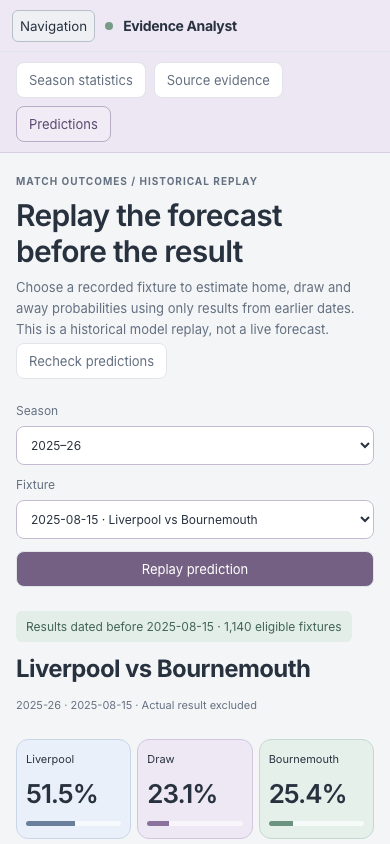
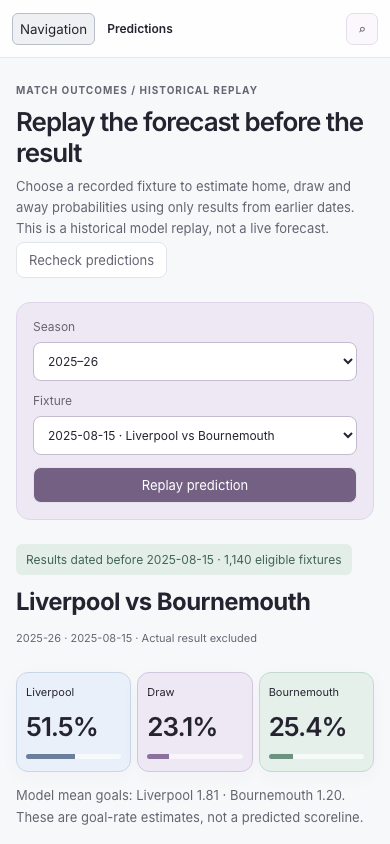
docs(ui): refresh workspace guide and real-data screenshots

diff --git a/README.md b/README.md
@@ -43,12 +43,17 @@ Explore the season through a focused relationship map, searchable player records
 
 Labels, keyboard focus and selection borders keep navigation clear without relying on color alone.
 
-![Club-first relationship explorer showing the 20 Premier League clubs and season](docs/images/demo-graph.png)
+![Discovery workspace with a real match spotlight and direct routes to each research tool](docs/images/discover.png)
+
+Start in **Discover**, browse the match spotlight, or jump directly to a tool. **⌘/Ctrl K** opens the searchable quick switch. Each workspace has a shareable URL; browser back/forward works across tools.
+
+<img src="docs/images/discover-mobile.png" width="390" alt="Mobile discovery workspace and match spotlight" />
 
 - **Evidence analyst:** compare points, goals and goal difference; inspect last-five form, home/away splits and goal/assist rankings, including per-90 rates with a minutes threshold.
 - **Focused graph explorer:** start with 20 clubs, drill into up to 12 available players and six recent fixtures, or search a player. Stable, labeled layouts replace the full-graph cluster; inspect real relationship directions and follow connections. Mobile starts in an accessible list view. Player/fixture views show up to eight recent appearance records.
 - **Player discovery:** search accent-free or full names (`ekitike`, `Alisson`), select closest matches for typos (`allison`), and distinguish missing roster coverage from service errors. [Search behavior and coverage](docs/player-search.md).
 - **Historical predictions:** replay 760 recorded fixtures across 2024–25 and 2025–26, inspect outcome probabilities and strictly earlier source records, and review two-season evaluation limits. [Prediction workflow](docs/prediction-workflow.md).
+- **Guided workspace:** interactive match spotlight, direct tool navigation, keyboard quick switch, mobile focus management and reduced-motion support.
 - **Fixture browser:** filter the full league schedule and navigate results using mouse or keyboard.
 - **Source evidence:** select a historical season, resolve fixture or player/opponent questions, and inspect verified records with original row/revision references. [Optional preparation and API guide](docs/evidence-api-ui.md).
 - **Evidence retrieval API:** search local summaries by club and inspect source URLs, record IDs and provenance.
@@ -186,7 +191,7 @@ Verified against pinned **2025–26** sources. [Acceptance evidence and reproduc
 | Historical outcome evaluation | **760 fixtures across two test seasons**; rolling log loss **0.9924 / 1.0350**, Brier **0.5920 / 0.6214**. Retrospective date-bounded tests; [protocol and uncertainty](docs/prediction-workflow.md). |
 | Independent numerical references | **42/42 passed**, plus five insufficient-evidence cases. |
 | Real-store/API acceptance | **Seven checks passed**, including all 42 live numerical references. |
-| Desktop/mobile browser flows | **28/28 passed**, covering graph exploration, keyboard navigation, fixtures, statistics, source evidence and predictions on desktop/mobile. |
+| Desktop/mobile browser flows | **34/34 passed**, covering discovery, match spotlight, quick switch, history navigation, graph exploration, fixtures, statistics, source evidence and predictions on desktop/mobile. |
 | Empty-storage Docker setup | Public collection, validation, graph/index loading and readiness passed. |
 | Backup and restart | All four volumes backed up privately; versions, counts and live answers preserved without recollection. |
 | CI | Python checks, wheel packaging, frontend build, Docker build and cold-storage readiness checks. |

diff --git a/docs/local-demo.md b/docs/local-demo.md
@@ -49,7 +49,7 @@ python3 scripts/demo.py evidence-status
 The expanded launcher builds the current image, prepares the MVP if needed, and
 runs historical collection, structured text acceptance, the separate evidence
 index/graph and retrieval smoke acceptance in the serving app's named volumes.
-Open **Evidence Chat → Source evidence** and choose a verified season. The
+Open **Source evidence** from the workspace navigation and choose a verified season. The
 [API/UI guide](evidence-api-ui.md) describes supported questions and source cards.
 The default launcher remains the smaller MVP option.
 

diff --git a/docs/evidence-api-ui.md b/docs/evidence-api-ui.md
@@ -1,6 +1,6 @@
 # Structured evidence in the analyst
 
-Open **Evidence Chat → Source evidence** to search the accepted four-season corpus.
+Open **Source evidence** from the workspace navigation to search the accepted four-season corpus.
 The existing **Season statistics** mode still calculates supported 2025–26 metrics.
 The sidebar fixtures and graph continue to show the default 2025–26 MVP; the
 Source evidence season selector controls historical retrieval independently.

diff --git a/docs/prediction-workflow.md b/docs/prediction-workflow.md
@@ -1,6 +1,6 @@
 # Historical prediction workflow
 
-Open **Evidence Chat → Predictions** in the local app. Choose 2024–25 or 2025–26,
+Open **Predictions** from the workspace navigation in the local app. Choose 2024–25 or 2025–26,
 select a recorded fixture and replay its home/draw/away forecast. The 760-fixture
 catalogue covers all 20 clubs in each season. This is a retrospective statistical
 workflow, not a live upcoming-fixture service or Gemini-generated forecast.
